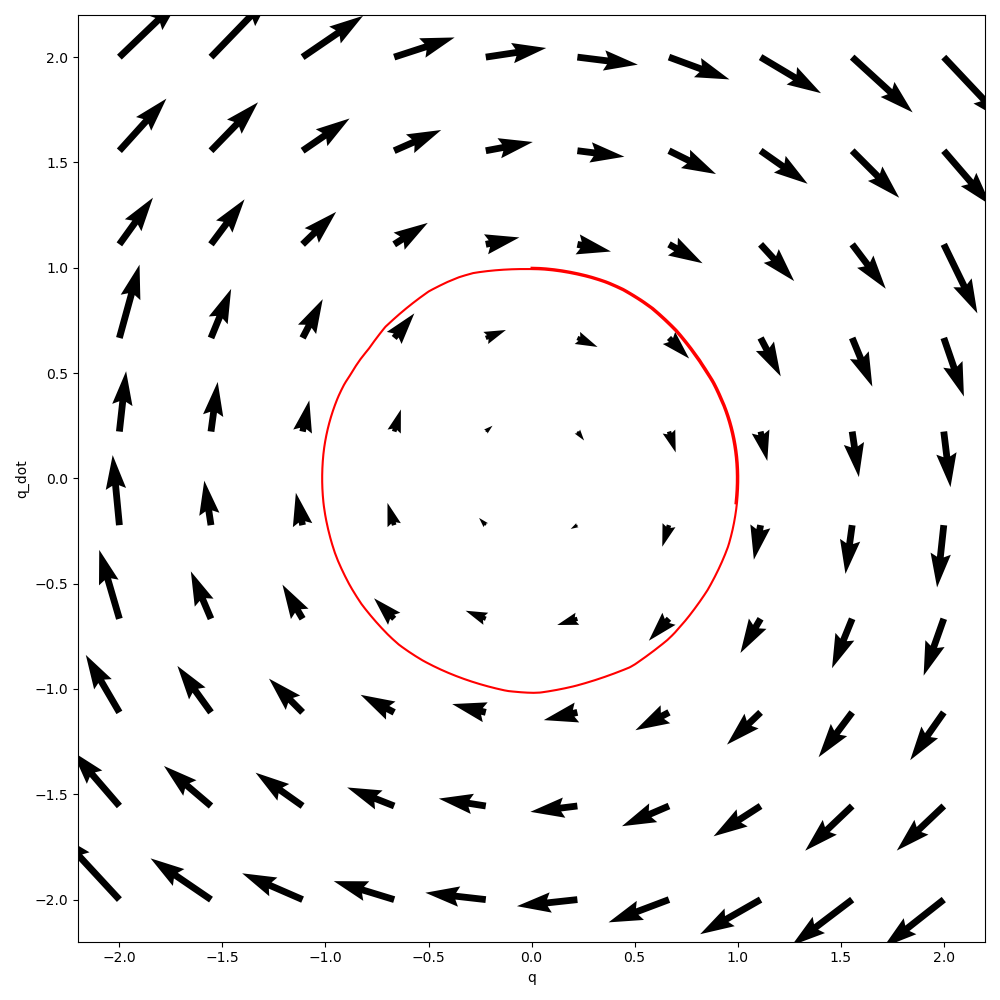
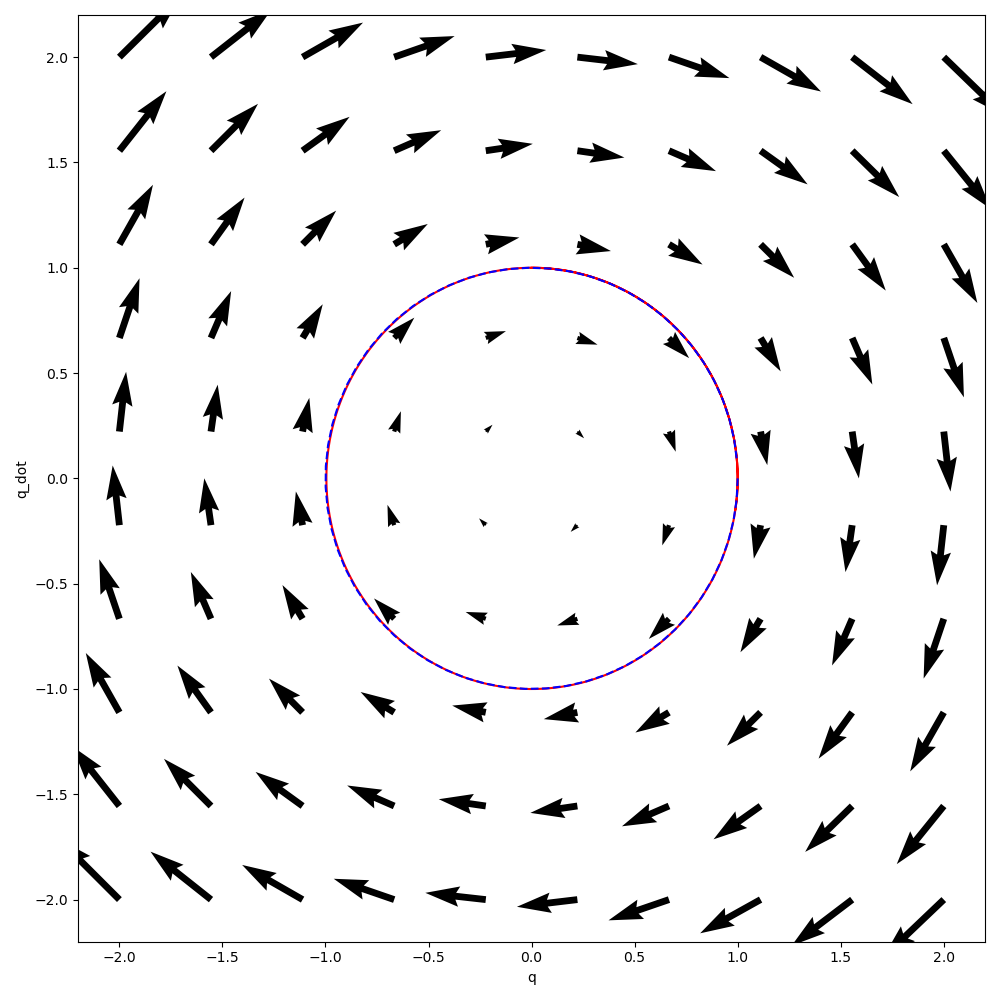
refactor structure

diff --git a/learn.py b/learn.py
@@ -1,46 +1,11 @@
-from math import pi
 import torch
-
-import numpy as np
-
-from integrate_motion import lagrangian_path, plot_vector_field
-
-import random
 
 import lagrangian as lag
 
-import sys
-
 import matplotlib.pyplot as plt
-
-device = 'cpu'
-model_path = 'model_softplus.pth'
-
-def harmonic_osillator(t, amplitude, phi):
-    omega = 1
-    return amplitude * np.cos(omega * t + phi), -amplitude * omega * np.sin(omega * t + phi), -amplitude * omega**2 * np.cos(omega * t + phi)
 
 def l2_loss(q_dot_dot_predicted, q_dot_dot_actual):
     return (q_dot_dot_predicted - q_dot_dot_actual).pow(2)
-
-def generate_dataset(range_start, range_end, random_amplitude, random_phi):
-    dataset = []
-    targets = []
-    for t in range(range_start, range_end):
-        q, q_dot, q_dot_dot = harmonic_osillator(t, random_amplitude, random_phi)
-
-        dataset.append([q, q_dot])
-        targets.append(q_dot_dot)
-        
-    dataset = torch.tensor(dataset, dtype=torch.float32, device=device, requires_grad=True)
-    targets = torch.tensor(targets, dtype=torch.float32, device=device)
-    return dataset, targets
-
-
-def test_model(model, test_dataset, test_targets):
-    for i in range(len(test_dataset)):
-        q_dot_dot_predicted = lag.q_dot_dot(model, test_dataset[i])
-        print('Predicted: ', q_dot_dot_predicted.item(), 'Actual: ', test_targets[i].item())
 
 def plot_loss(losses):
     import matplotlib.pyplot as plt
@@ -48,7 +13,7 @@ def plot_loss(losses):
     plt.yscale('log')
     plt.savefig('loss.png')
 
-def epoch(model, dataset, targets):
+def epoch(model, dataset, targets, device):
     losses = []
     
     loss_total = torch.tensor(0.0, device=device, requires_grad=True)
@@ -67,7 +32,7 @@ def epoch(model, dataset, targets):
 
     return losses
 
-def load_model_or_make_new():
+def load_model_or_make_new(model_path, device):
     try:
         model = lag.LagrangianNN().to(device)
         model.load_state_dict(torch.load(model_path))
@@ -75,8 +40,7 @@ def load_model_or_make_new():
         model = lag.LagrangianNN().to(device)
     return model
 
-def train_loop(model, lr, n) -> int:
-    
+def train_loop(model, lr, n, dataset_generator, device, iter_cb=None) -> int:
     mean_losses_epoch = []
 
 
@@ -85,13 +49,8 @@ def train_loop(model, lr, n) -> int:
 
     for i in range(n):
         optimizer.zero_grad()
-        random_amplitude = random.uniform(-2, 2)
-        random_phi = random.uniform(-2*pi, 2*pi)
-
-        random_n = random.randint(0, 100)
-
-        dataset, targets = generate_dataset(random_n, random_n + 30, random_amplitude, random_phi)
-        losses = epoch(model, dataset, targets)
+        dataset, targets = dataset_generator(device)
+        losses = epoch(model, dataset, targets, device)
 
         loss = torch.stack(losses).mean()
         mean_losses_epoch.append(loss.detach().cpu().numpy())
@@ -101,22 +60,8 @@ def train_loop(model, lr, n) -> int:
 
         print('Epoch: ', i, 'Loss: ', loss.item(), 'LR: ', optimizer.param_groups[0]['lr'])
 
-        if (i+1) % 200 == 0:
-            torch.save(model.state_dict(), model_path)
+        if not iter_cb is None:
+            iter_cb(i, mean_losses_epoch)
 
-        if (i+1) % 1000 == 0:
-            plt.cla()
-            plot_loss(mean_losses_epoch)
-    
     return 0
 
-def main():
-    model = load_model_or_make_new()
-    train_loop(model, 1e-3, 1000)
-
-    plt.cla()
-    plot_vector_field(model, lagrangian_path(model, torch.tensor([0, 1], dtype=torch.float32, device=device, requires_grad=True)))
-
-if __name__ == '__main__':
-    main()
-    sys.exit()

diff --git a/harmonic_oscillator.py b/harmonic_oscillator.py
@@ -1,0 +1,65 @@
+from math import pi
+import torch
+
+import numpy as np
+
+from integrate_motion import lagrangian_path, plot_vector_field
+
+import random
+
+import sys
+
+import matplotlib.pyplot as plt
+
+import numpy as np
+
+import torch
+
+from learn import load_model_or_make_new, train_loop
+
+def harmonic_osillator(t, amplitude, phi):
+    omega = 1
+    return amplitude * np.cos(omega * t + phi), -amplitude * omega * np.sin(omega * t + phi), -amplitude * omega**2 * np.cos(omega * t + phi)
+
+def harmonic_oscillator_generate_path(t_range_start, t_range_end, dt, amplitude, phi, device):
+    dataset = []
+    targets = []
+
+    for t in np.arange(t_range_start, t_range_end, dt):
+        q, q_dot, q_dot_dot = harmonic_osillator(t, amplitude, phi)
+
+        dataset.append([q, q_dot])
+        targets.append(q_dot_dot)
+        
+    dataset = torch.tensor(dataset, dtype=torch.float32, device=device, requires_grad=True)
+    targets = torch.tensor(targets, dtype=torch.float32, device=device)
+    return dataset, targets
+
+def generate_harmonic_oscillator_dataset(device):
+    random_amplitude = random.uniform(-2, 2)
+    random_phi = random.uniform(-2*pi, 2*pi)
+
+    path_start = random.randint(0, 100)
+
+    dataset, targets = harmonic_oscillator_generate_path(path_start, path_start + 30, 1, random_amplitude, random_phi, device)
+
+    return dataset, targets
+
+def main():
+    device = 'cpu'
+    model_path = 'model_softplus.pth'
+
+    model = load_model_or_make_new(model_path, device)
+    train_loop(model, 1e-3, 1000, generate_harmonic_oscillator_dataset, device)
+
+    plt.cla()
+
+    ground_truth_path, _ = harmonic_oscillator_generate_path(0, 2*pi, 0.1, 1, 0, device)
+
+    predicted_path = lagrangian_path(model, torch.tensor([0, 1], dtype=torch.float32, device=device, requires_grad=True))
+
+    plot_vector_field(model, predicted_path.detach(), ground_truth_path.detach())
+
+if __name__ == '__main__':
+    main()
+    sys.exit()

diff --git a/integrate_motion.py b/integrate_motion.py
@@ -11,7 +11,6 @@ def differential(model, x) -> torch.Tensor:
 
     return torch.tensor([d_q, d_q_dot], dtype=torch.float32)
 
-
 def lagrangian_path(model, x):
     dt = 0.01
 
@@ -33,7 +32,7 @@ def lagrangian_path(model, x):
 
     return torch.stack(path)
 
-def plot_vector_field(model, path=None):
+def plot_vector_field(model, path_prediction, path_ground_truth):
     import matplotlib.pyplot as plt
 
     q = torch.linspace(-2, 2, 10)
@@ -50,8 +49,10 @@ def plot_vector_field(model, path=None):
     plt.xlabel('q')
     plt.ylabel('q_dot')
     plt.tight_layout()
+    
+    plt.plot(path_prediction[:, 0], path_prediction[:, 1], color='red', )
 
-    if path is not None:
-        plt.plot(path[:, 0], path[:, 1], 'r')
+    plt.plot(path_ground_truth[:, 0], path_ground_truth[:, 1], color='blue', linestyle='--')
+
     fig.savefig('vector_field.png')
     
